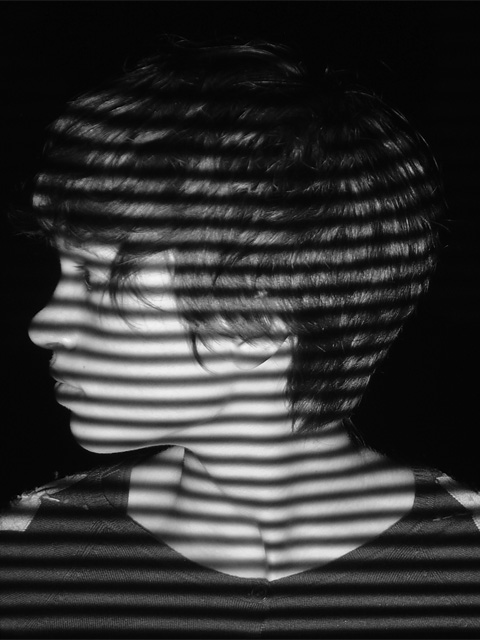
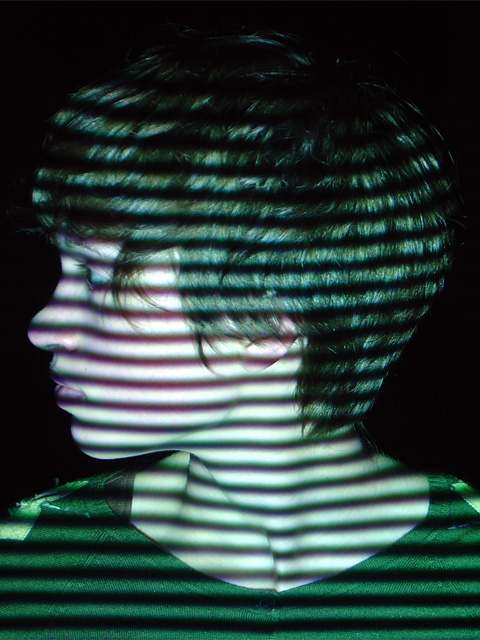
uploaded better photos w/ color, added color recognition and display to points

diff --git a/trunk/slDecode/ThreePhaseDecoder.cpp b/trunk/slDecode/ThreePhaseDecoder.cpp
@@ -15,21 +15,19 @@ void ThreePhaseDecoder::setup(int width, int height, float zskew, float zscale, 
 	this->zscale = zscale;
 	this->noiseTolerance = noiseTolerance;
 
-	phase1Image.allocate(width, height, OF_IMAGE_COLOR);
-	phase2Image.allocate(width, height, OF_IMAGE_COLOR);
-	phase3Image.allocate(width, height, OF_IMAGE_COLOR);
-
 	toProcess.reserve(height * width);
 
 	wrapphase = new float*[height];
 	mask = new bool*[height];
 	process = new bool*[height];
 	depth = new float*[height];
+	color = new unsigned char*[height];
 	for(int i = 0; i < height; i++) {
 		wrapphase[i] = new float[width];
 		mask[i] = new bool[width];
 		process[i] = new bool[width];
 		depth[i] = new float[width];
+		color[i] = new unsigned char[width * 3];
 	}
 }
 
@@ -49,10 +47,8 @@ float** ThreePhaseDecoder::getDepth() {
 	return depth;
 }
 
-void ThreePhaseDecoder::decode() {
-  phaseWrap();
-  phaseUnwrap();
-  makeDepth();
+unsigned char** ThreePhaseDecoder::getColor() {
+	return color;
 }
 
 void ThreePhaseDecoder::loadImages(
@@ -64,9 +60,35 @@ void ThreePhaseDecoder::loadImages(
   phase2Image.loadImage(phase2Filename);
   phase3Image.loadImage(phase3Filename);
 
+	unsigned char* phase1Pixels = phase1Image.getPixels();
+	unsigned char* phase2Pixels = phase2Image.getPixels();
+	unsigned char* phase3Pixels = phase3Image.getPixels();
+
+  for(int y = 0; y < height; y++) {
+  	int offset = y * width * 3;
+  	for(int xc = 0; xc < width * 3; xc++) {
+  		color[y][xc] = maximum(
+				phase1Pixels[offset],
+				phase2Pixels[offset],
+				phase3Pixels[offset]);
+  		offset++;
+  	}
+  }
+
+	// this could be sped up by loading the files into
+	// a color image, and doing our own color->grayscale
+	// conversion. that cuts down on re-allocation and
+	// conversion time.
+
   phase1Image.setImageType(OF_IMAGE_GRAYSCALE);
   phase2Image.setImageType(OF_IMAGE_GRAYSCALE);
   phase3Image.setImageType(OF_IMAGE_GRAYSCALE);
+}
+
+void ThreePhaseDecoder::decode(int offset) {
+  phaseWrap();
+  phaseUnwrap();
+  makeDepth(offset);
 }
 
 void ThreePhaseDecoder::phaseWrap() {
@@ -190,9 +212,10 @@ void ThreePhaseDecoder::phaseUnwrap(const float& r, int x, int y) {
   toProcess.push_back(cur);
 }
 
-void ThreePhaseDecoder::makeDepth() {
+void ThreePhaseDecoder::makeDepth(int offset) {
 	for (int y = 0; y < height; y ++) {
     float planephase = 0.5 - (y - (height / 2)) / zskew;
+    planephase += ((float) offset) / 3.;
     for (int x = 0; x < width; x++)
       if (!mask[y][x])
         depth[y][x] = (wrapphase[y][x] - planephase) * zscale;
@@ -201,6 +224,6 @@ void ThreePhaseDecoder::makeDepth() {
 
 ThreePhaseDecoder::~ThreePhaseDecoder() {
 	for(int i = 0; i < height; i++)
-		delete [] wrapphase[i], mask[i], process[i], depth[i];
-	delete [] wrapphase, mask, process, depth;
+		delete [] wrapphase[i], mask[i], process[i], depth[i], color[i];
+	delete [] wrapphase, mask, process, depth, color;
 }

diff --git a/trunk/slDecode/testApp.cpp b/trunk/slDecode/testApp.cpp
@@ -1,11 +1,11 @@
 #include "testApp.h"
 
-void testApp::setup(){
-	decoder.setup(ofGetWidth(), ofGetHeight(), 23, 140);
-	decoder.loadImages("phase1.jpg", "phase2.jpg", "phase3.jpg");
-
+void testApp::timeDecoder() {
 	FastTimer fastTimer;
-
+	decoder.loadImages(
+		files[0],
+		files[1],
+		files[2]);
 	float itr = 50;
 	fastTimer.start();
 	for(int i = 0; i < itr; i++)
@@ -13,6 +13,16 @@ void testApp::setup(){
 	fastTimer.stop();
 	float fps = (itr / fastTimer.getSeconds());
 	cout << fps << " fps / " << (1000 / fps) << " ms" << endl;
+}
+
+void testApp::setup() {
+	decoder.setup(ofGetWidth(), ofGetHeight(), 24, 140);
+
+	files.push_back("phase1.jpg");
+	files.push_back("phase2.jpg");
+	files.push_back("phase3.jpg");
+
+	timeDecoder();
 
 	camera.setup(this, 512);
 
@@ -20,10 +30,17 @@ void testApp::setup(){
 	ofSetColor(255, 255, 255);
 }
 
-void testApp::update(){
+void testApp::update() {
+	int position = ofGetFrameNum();
+	int size = files.size();
+	decoder.loadImages(
+		files[(position + 0) % size],
+		files[(position + 1) % size],
+		files[(position + 2) % size]);
+	decoder.decode((position + 1) % 3);
 }
 
-void testApp::draw(){
+void testApp::draw() {
   camera.draw();
 
 	int width = decoder.getWidth();
@@ -31,11 +48,14 @@ void testApp::draw(){
 
 	bool** mask = decoder.getMask();
 	float** depth = decoder.getDepth();
+	unsigned char** color = decoder.getColor();
   int step = 2;
   glBegin(GL_POINTS);
   for (int y = step; y < height; y += step)
     for (int x = step; x < width; x += step)
-      if (!mask[y][x])
+      if (!mask[y][x]) {
+      	ofSetColor(color[y][x * 3], color[y][x * 3 + 1], color[y][x * 3 + 2]);
         glVertex3f(x, y, depth[y][x]);
+      }
   glEnd();
 }

diff --git a/trunk/slDecode/ThreePhaseDecoder.h b/trunk/slDecode/ThreePhaseDecoder.h
@@ -19,7 +19,8 @@ public:
 	int getHeight();
 	bool** getMask();
 	float** getDepth();
-	void decode();
+	unsigned char** getColor();
+	void decode(int offset = 0);
 	~ThreePhaseDecoder();
 	ofImage phase1Image, phase2Image, phase3Image;
 private:
@@ -30,7 +31,7 @@ private:
 		const unsigned char& phase3);
 	void phaseUnwrap();
 	inline void phaseUnwrap(const float& r, int x, int y);
-	void makeDepth();
+	void makeDepth(int offset);
 
 	float noiseTolerance, zskew, zscale;
 	int width, height;
@@ -41,4 +42,5 @@ private:
 	bool** mask;
 	bool** process;
 	float** depth;
+	unsigned char** color;
 };

diff --git a/trunk/slDecode/testApp.h b/trunk/slDecode/testApp.h
@@ -10,9 +10,9 @@ public:
 	void setup();
 	void update();
 	void draw();
+	void timeDecoder();
 
 	ThreePhaseDecoder decoder;
-	float zscale, zskew;
-
+	vector<string> files;
 	ofxEasyCam camera;
 };
